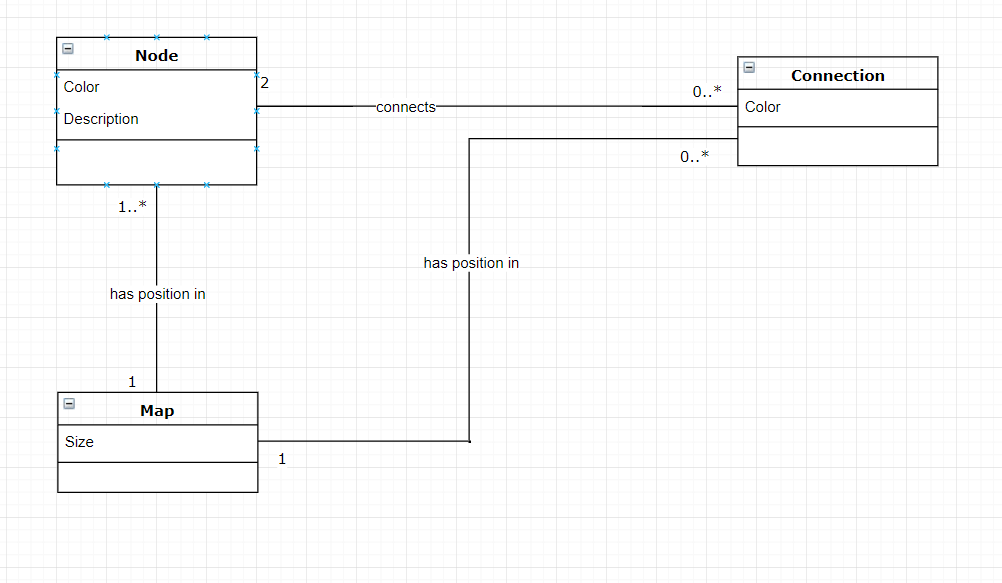
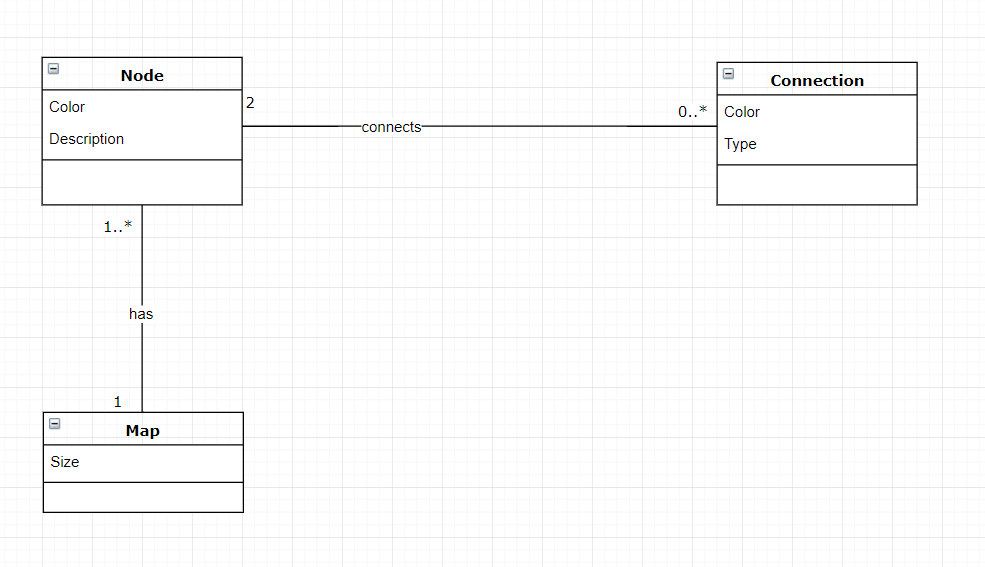
Added Domain Model,Added Usecases, UserStories, EditedVision

diff --git a/doc/Dokumentation.tex b/doc/Dokumentation.tex
@@ -23,28 +23,94 @@
 \tableofcontents
 \pagebreak
 \section{Vision}
-Ein Mind-Map erlaubt es Themen in ihrer ganzen breite einfach und verständlich darzustellen. Oft wird dies auf Papier während eines Meetings oder bei der Planung gemacht.\\
-Mit unserer Software wollen wir das Konzept von den Grenzen des Papiers befreien.\\
-Ein Mind-Map soll einfach zu erstellen und verändern sein. Ausserdem soll es gespeichert und gedruckt werden können.
+Jeder kennt diese Situation, man sitzt in einem Meeting und möchte kurz ein Brainstorming machen. Oder man
+möchte für die nächste Arbeit zu einem Thema eine Übersicht zu den Informationen erstellen. Eine der einfachsten Methoden so eine Übersicht darzustellen ist das Mindmap. Das Mindmap auch Gedankenlandkarte genannt ist eine Technik welche von Tony Buzan geprägt und entwickelt wurde. Das Mindmap basiert auf dem Prinzip der Assoziation. Dies kommt nicht von ungefähr, unser Gehirn arbeitet ebenfalls mit Assoziationen, es versucht ständig neue Informationen mit gewissen Kategorien und anderen Informationen zu verknüpfen. Das Mindmap basiert auf derselben Technik, deshalb fällt es uns auch sehr einfach ein Mindmap zu erstellen.
+Dieses zu erstellen ist jedoch mit den meisten Programmen eher mühsam, deshalb greift man auf den Stift und Papier zurück. Um hier Abhilfe zu schaffen kommt unser Projekt ins Spiel. Ziel unseres Projektes, ist das Entwickeln einer Software mitwelcher man möglichst einfach und schnell ein Mindmap erstellen kann. 
+Dabei werden wir besonders Wert auf die Benutzerfreundlichkeit legen. Es sollte 
+möglich sein in kürzester Zeit ein Mindmap zu erstellen. Das Programm sollte aber auch reif sein für komplexere Mindmaps. Deshalb wird das Programm auch Funktionen wie verschiedene Verbindungstypen und Farben unterstützen, um auch komplexere Mindmaps übersichtlich zu gestalten. 
+Wichtige Funktionen welche das Programm ebenfalls bieten muss sind: das Speichern, Laden und Drucken/Exportieren der Mindmaps. 
+Das Programm wird als Standalone Software in JavaFX erstellt. JavaFX ist ein Framework von Oracle welches auf die Erstellung von GUI's und Multimedialen Inhalten spezialisiert ist.
+Wir hoffen wir können durch dieses Projekt vielen Menschen helfen Ihre Ideen mithilfe unseres Programmes
+festzuhalten. 
+\section{Analysis}
+In diesem Abschnitt wird eine grobe Übersicht über die Software erstellt. Fragen wie, was sind die Anforderungen an die Software, was sind die Anforderungen der Akteure etc. werden hier beantwortet. Ebenfalls wird eine grobe Übersicht über die Programmstruktur erstellt.
+\subsection{Domainmodel}
+In diesem Abschnitt wird das Domain Model ("Fachmodell") des Mindmap Programmes beschrieben. Es stellt die 
+wichtigsten Fachklassen und Assoziationen dar und zeigt die jeweiligen Multiplizitäten.
 
-\section{Evaluation}
-\subsection{Use Cases \& User Stories}
+\includegraphics[width=\linewidth]{DomainModel.PNG}
+
+\subsubsection{Beschreibung}
+Wie oben in der Grafik zu sehen ist, haben wir uns dafür entschieden, dass eine Map mindestens einen Knoten haben muss um eine Map zu sein. Im Moment denken wir das die Connection und die Map keine direkte Verbindung benötigen dies könnte sich aber beim Implementieren vielleicht noch ändern. Ebenfalls haben wird definiert, dass eine Verbindung immer zwischen 2 Knoten besteht.
+
+\subsubsection{Assoziationen}
+\begin{itemize}
+\item Zwei Knoten haben keine oder mehrere Verbindungen. Eine Verbindung besteht aus 2 Knoten.
+\item Eine Map hat einen oder Mehrere Knoten. Ein Knoten gehört zu einer Map.
+\end{itemize}
+
+\subsection{Use Cases}
+Use-Cases beschreiben die Requirements der einzelnen Aktuere, es zeigt die Abläufe des Programmes auf. Zeigt dabei aber nicht wie die einzelnen Teile funktionieren.
+
+\subsubsection{Use Case Diagramm}
+\includegraphics[width=\linewidth]{UseCaseDiagram.PNG}
+
+\subsubsection{Mindmap Process}
+Neues Mindmap Szenario:
+\begin{enumerate}
+\item Benutzer erstellt neues Mindmap
+\item GUI Service zeigt leeres Mindmap an
+\item Benutzer erstellt Nodes und Connections 
+\item Benutzer bearbeitet die Nodes und Connections z.B. Typ, Beschreibung, Farbe.
+\item GUI Service stellt dies dar
+\item Punkt 3-5 werden wiederholt bis der Benutzer zufrieden ist
+\item Benutzer speichert seine Arbeit
+\item GUI Service übergibt Fileservice die Map
+\item Fileservice speichert die Map in ein Dokument
+\end{enumerate}
+
+Mindmap bearbeiten Szenario: 
+\begin{enumerate}
+\item Benutzer lädt Mindmap
+\item Fileservice lädt das alte Mindmap
+\item GUI Service zeigt das Mindmap an (Danach analog zu oberem Szenario)
+\end{enumerate}
+
+\subsection{User Stories}
+Da wir nur ein Akteur den Benutzer haben, wird auf die Bezeichnung "als Benutzer möchte ich" verzichtet und stattdessen nur von der ich perspektive gesprochen wird. 
+\begin{itemize}
+\item Ich möchte ein neues Mindmap erstellen können.
+\item Ich möchte Nodes hinzufügen können. 
+\item Ich möchte zwei Nodes miteinander verknüpfen.
+\item Ich möchte meine Nodes beschreiben können
+\item Ich möchte meine Nodes und Connections färben können.
+\item Ich möchte meine Nodes auf der Map bewegen können. 
+\item Ich möchte mein Mindmap speichern können.
+\item Ich möchte ein altes Mindmap laden können.
+\end{itemize}
+
 \subsection{Anforderungen}
+--> Teil Modul Requirements Engineering
 
 \section{Design}
+
 \subsection{Systemkontext}
+
+
 \subsection{System Sequence Diagram}
-\subsection{Domainmodel}
-\includegraphics[width=\linewidth]{DomainModel.PNG}
+
 \subsection{UML Diagramme}
 
 \section{Entwicklung}
 \subsection{Sprint 1}
+Sprint 1 dauert vom 13.03 - 03.04
 \subsection{Sprint 2}
+Sprint 2 dauert vom 03.4 - 24.04
 \subsection{Sprint 3}
+Sprint 3 dauert vom 24.04 - 15.05
 \subsection{Sprint 4}
-
-\section{Test}
+Sprint 4 dauert vom 15.05 - 29.05 (Abgabe Code Teil)
+\section{Fazit}
 
 \section{Glossar}
 

diff --git a/doc/Journal.tex b/doc/Journal.tex
@@ -27,4 +27,12 @@ Die erste Besprechung des Projekts war wie ein Kickoff. Herr Biberstein hat uns 
 Überblick verschafft, wie er das Projekt Mindmap versteht. Ebenfalls haben wir uns auf eine Besprechungsperiode geeinigt. Ebenfalls besprochen wurde ein erster Entwurf eines Domainmodels.
 \subsection{Ausblick}
 Die nächste Besprechung findet am 06.03.2019 statt. Bis dann sollte das Projekt Gerüst fertiggestellt werden, dieses wird dann besprochen. Ebenfalls sollte das Domainmodel angepasst und eine Vision für das Projekt geschrieben werden.
+
+\section{Besprechung 06.03.2019}
+Anwesend an der Besprechung war:"Dominik Meister, Lorenz Rasch und Olivier Biberstein". 
+\subsection{Besprechung}
+In dieser Besprechung wurde das Projektgerüst welches von uns erstellt wurde besprochen, an der Struktur wurden direkt an der Besprechung einige kleine Anpassungen vorgenommen. Ebenfalls wurde die Vision besprochen, diese sei wesentlich zu kurz und soll wie eine Einleitung in das Projekt sein. Ebenfalls wurde das Domainmodel besprochen, dieses ist gut könnte sich aber noch ändern im Verlaufe des Projekts.
+\subsection{Ausblick}
+Die nächste Besprechung findet am 13.03.2019 statt. Bis dann sollten die Verbesserungen in der Projektstruktur gemacht werden. Ebenfalls sollten folgende Punkte erledigt werden:"UseCases erfassen, Userstories erfassen, Domainmodel Beschreibung erstellen, Vision anpassen, Sprint-Planung überlegen.
+
 \end{document}
